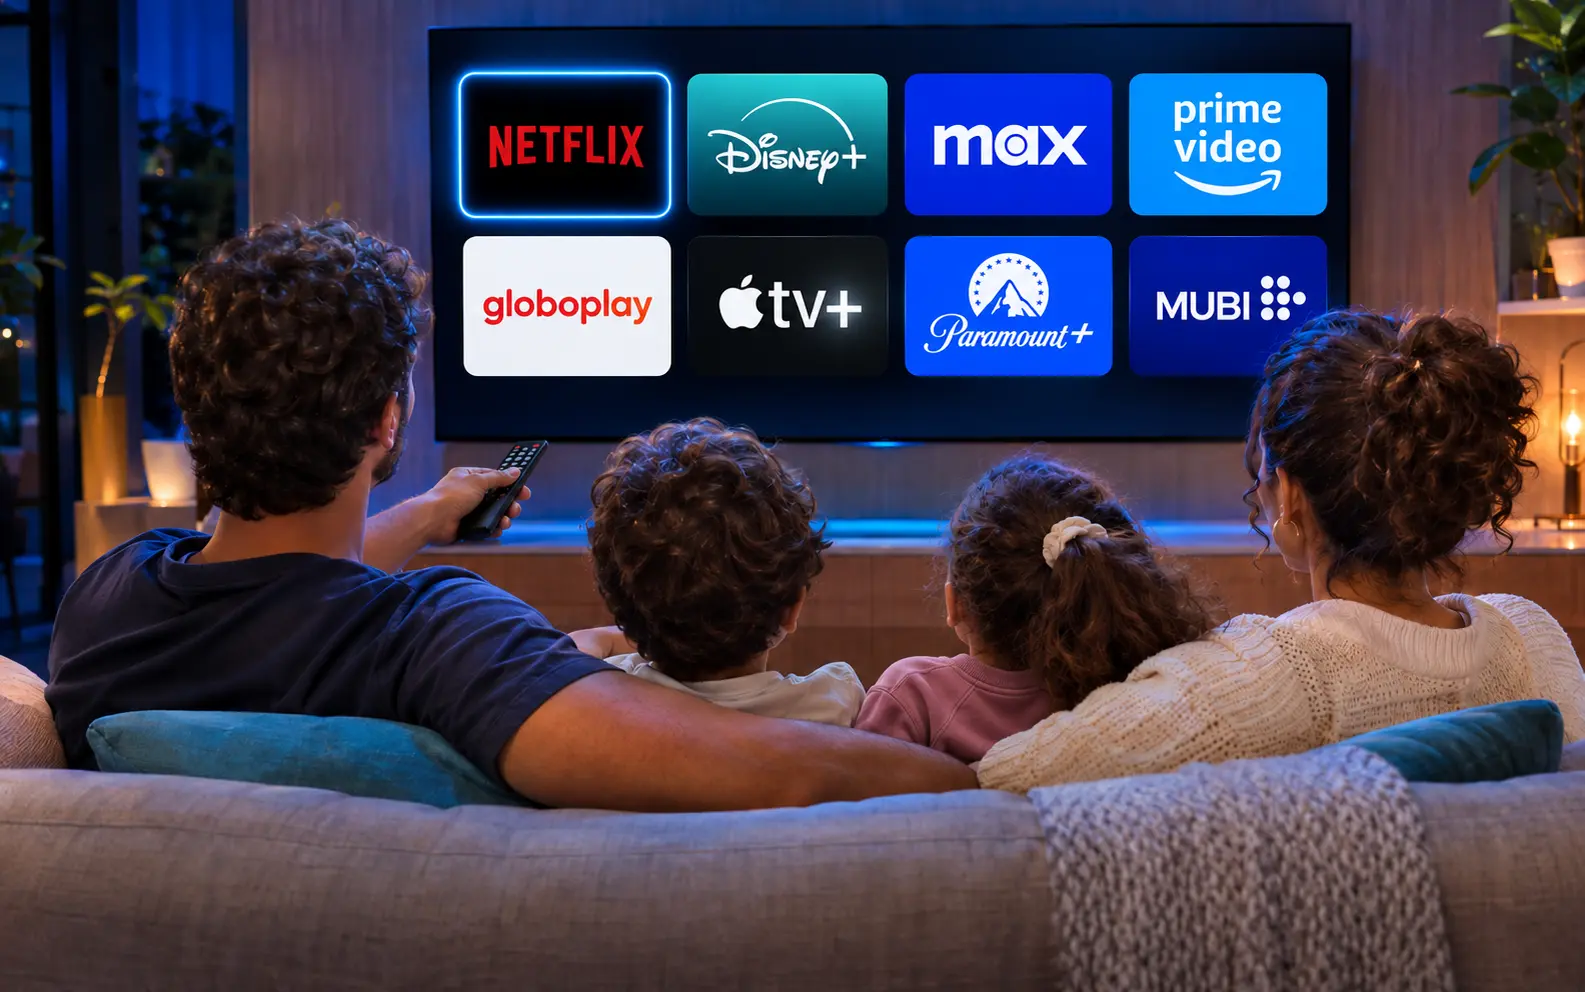
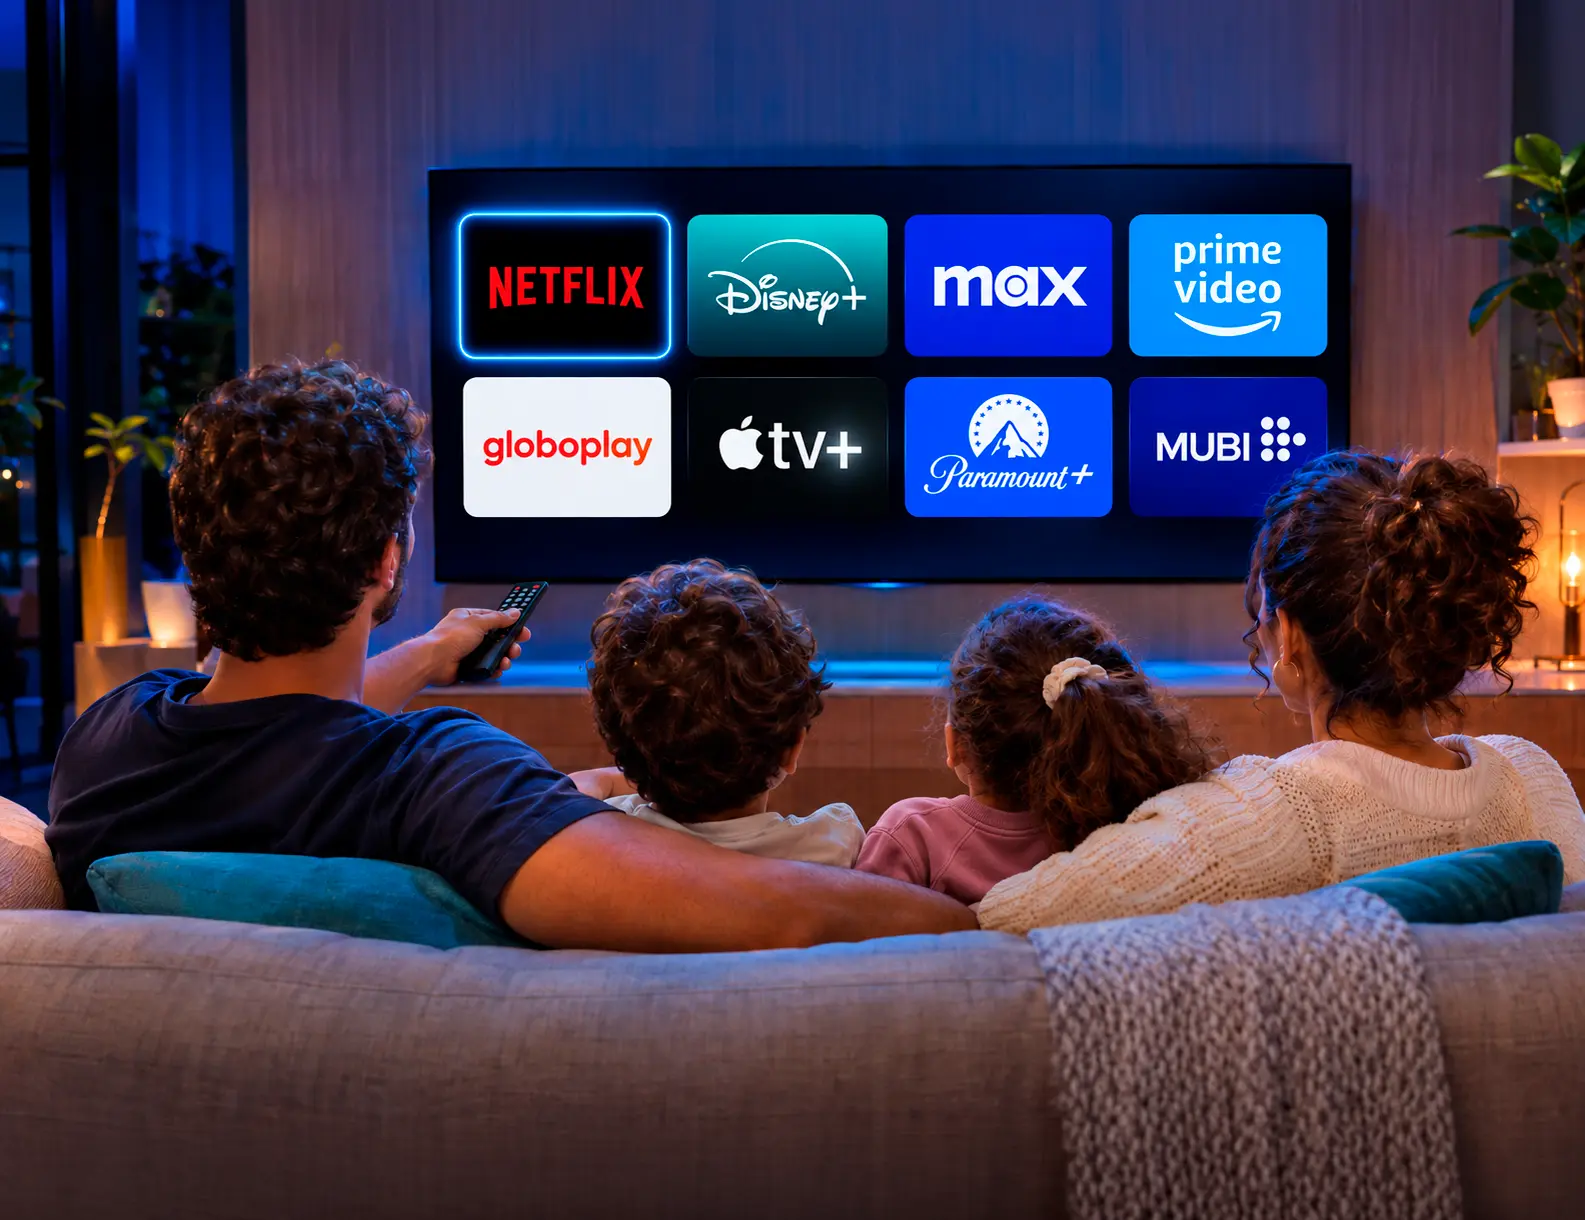
Ajuste IMG | THEODORO

diff --git a/css/site.css b/css/site.css
@@ -552,11 +552,11 @@ html.gsap-scroll-smoother #smooth-content { padding-top: 116px; }
 .streaming-layout {
   position: relative;
   z-index: 1;
-  min-height: 675px;
+  min-height: 0;
   padding-block: 76px;
   display: grid;
   grid-template-columns: minmax(0, .96fr) minmax(0, 1.04fr);
-  align-items: center;
+  align-items: stretch;
   gap: 36px;
 }
 .streaming-copy {
@@ -584,16 +584,20 @@ html.gsap-scroll-smoother #smooth-content { padding-top: 116px; }
   margin-top: 30px;
 }
 .streaming-image-slot {
+  position: relative;
   min-width: 0;
-  min-height: 390px;
+  min-height: 0;
   display: grid;
-  place-items: center;
+  place-items: stretch;
 }
 .streaming-image-slot img {
+  position: absolute;
+  inset: 0;
   width: 100%;
-  max-width: 560px;
-  height: auto;
-  object-fit: contain;
+  max-width: none;
+  height: 100%;
+  object-fit: cover;
+  object-position: center center;
   border: 1px solid rgba(193, 217, 255, .16);
   border-radius: 22px;
   box-shadow: 0 25px 65px rgba(0, 8, 30, .32), 0 0 70px rgba(26, 91, 232, .13);
@@ -601,14 +605,15 @@ html.gsap-scroll-smoother #smooth-content { padding-top: 116px; }
 
 @media (max-width: 900px) {
   .streaming-layout {
-    min-height: 610px;
-    grid-template-columns: minmax(0, 1fr) minmax(0, .85fr);
-    gap: 22px;
+    min-height: 0;
+    grid-template-columns: minmax(0, 1fr);
+    gap: 30px;
     padding-block: 67px;
   }
   .streaming-copy h2 { font-size: clamp(33px, 4.8vw, 45px); }
   .streaming-copy > p { font-size: 13px; }
-  .streaming-image-slot { min-height: 310px; }
+  .streaming-image-slot { min-height: 0; }
+  .streaming-image-slot img { position: static; height: auto; object-fit: contain; }
 }
 
 @media (max-width: 600px) {

diff --git a/index.html b/index.html
@@ -182,7 +182,7 @@
           <a class="button button-red button-lg whatsapp-link streaming-cta" data-cta="streaming" data-plan="Geral" href="https://wa.me/557930454880" target="_blank" rel="noopener noreferrer"><svg class="icon"><use href="#i-whatsapp"/></svg> QUERO CONHECER OS PLANOS <svg class="icon arrow"><use href="#i-arrow"/></svg></a>
         </div>
         <div class="streaming-image-slot">
-          <img src="assets/streaming-familia.webp" alt="Família reunida no sofá assistindo à televisão com opções de streaming" width="1585" height="992" loading="lazy" decoding="async" fetchpriority="low">
+          <img src="assets/streaming-familia.webp" alt="Família reunida no sofá assistindo à televisão com opções de streaming" width="1585" height="1220" loading="lazy" decoding="async" fetchpriority="low">
         </div>
       </div>
     </section>
